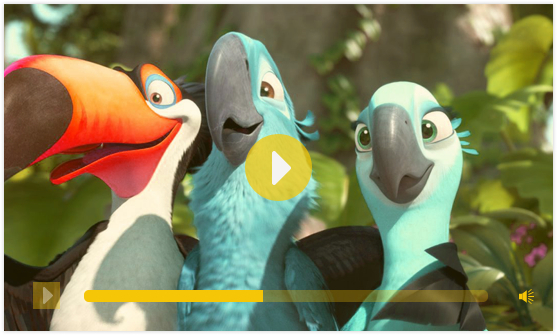
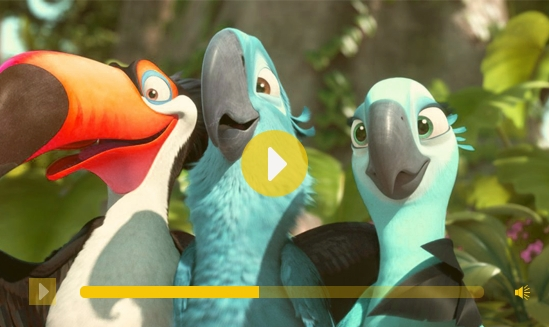
feat: implement header

diff --git a/style.css b/style.css
@@ -105,6 +105,10 @@ body, html {
   font-size: 16px;
 }
 
+.clearfix {
+  clear: both;
+}
+
 .inner {
   margin: 0 140px auto;
   height: auto; 
@@ -174,11 +178,28 @@ a{
      -moz-box-shadow: -4px -5px rgba(245,197,6, 0.27), -8px -8px rgba(245,197,6, 0.27);
       -ms-box-shadow: -4px -5px rgba(245,197,6, 0.27), -8px -8px rgba(245,197,6, 0.27);
           box-shadow: -4px -5px rgba(245,197,6, 0.27), -8px -8px rgba(245,197,6, 0.27);
+  -webkit-transition: .3s;
+     -moz-transition: .3s;
+      -ms-transition: .3s;
+          transition: .3s;        
   font-family: SegoeWP;
   font-size: 17px;
   letter-spacing: 0.17px;
   text-transform: uppercase;
   color: #9b7d08;  
+  z-index: 9;
+}
+.nav_item:hover {
+  background-color: rgba(85, 150, 247, 0.9);
+  color: #fff;
+  -webkit-box-shadow: -4px -5px rgba(85, 150, 247, 0.27), -8px -8px rgba(85, 150, 247, 0.27);
+     -moz-box-shadow: -4px -5px rgba(85, 150, 247, 0.27), -8px -8px rgba(85, 150, 247, 0.27);
+      -ms-box-shadow: -4px -5px rgba(85, 150, 247, 0.27), -8px -8px rgba(85, 150, 247, 0.27);
+          box-shadow: -4px -5px rgba(85, 150, 247, 0.27), -8px -8px rgba(85, 150, 247, 0.27);
+  -webkit-transition: .5s;
+     -moz-transition: .5s;
+      -ms-transition: .5s;
+          transition: .5s;
 }
 
 .about {
@@ -213,4 +234,59 @@ a{
   position: absolute;
   top: 11px;
   left: 17px;
+}
+
+.teaser_video {
+  position: relative;
+  margin-top: 55px;
+  float: left;
+}
+.teaser_video::before, .teaser_video::after {
+  position: absolute;
+  top: 132px;
+  width: 32px;
+  height: 57px;
+  background-color: #f5c506;
+  text-align: center;
+  font-size: 20px;
+  line-height: 63px;
+  cursor: pointer;
+  opacity: 0.85;
+}
+.teaser_video::before {
+  content: url(assets/img/icon_lt.svg);  
+  left: -140px;
+}
+
+.teaser_video::after {
+  content: url(assets/img/icon_rt.svg);  
+  right: -601px;
+}
+
+.teaser img {
+  margin-left: 10px;
+  height: 327px;
+}
+
+.teaser_describe {
+  float: right;
+}
+
+.teaser_describe p {
+  font-family: "Asap-Regular";
+  text-transform: uppercase;
+  font-size: 63px;
+  letter-spacing: 0.63px;
+  color: #fff;
+  text-align: center;
+  margin-top: 131px;
+  margin-right: 17px;
+  line-height: 123%;
+}
+
+.teaser_describe strong {
+  color: #f5c506;
+  display: block;
+  margin-right: 15px;
+  
 }

diff --git a/index.html b/index.html
@@ -25,6 +25,15 @@
                --><li><a href="#" class="nav_item contact">Contact</a></li>
             </ul>
          </nav>
+         <div class="teaser clearfix">
+            <div class="teaser_video">
+               <img src="assets/img/video_top.jpg" alt="teazer">
+            </div>
+            <div class="teaser_describe">
+               <p><strong>The cool 
+                  </strong>The minimal</p> 
+            </div>
+         </div>
       </div>
    </header>
       
@@ -39,12 +48,6 @@
          
       </div>
    </footer>
-   <script>
-      let inner = document.querySelectorAll(".inner");
-      inner.forEach(function(e) {
-         let colour = "#" + Math.floor(Math.random()*1000)
-         e.style.backgroundColor = colour;
-      })
-   </script>
+   
 </body>
 </html>
